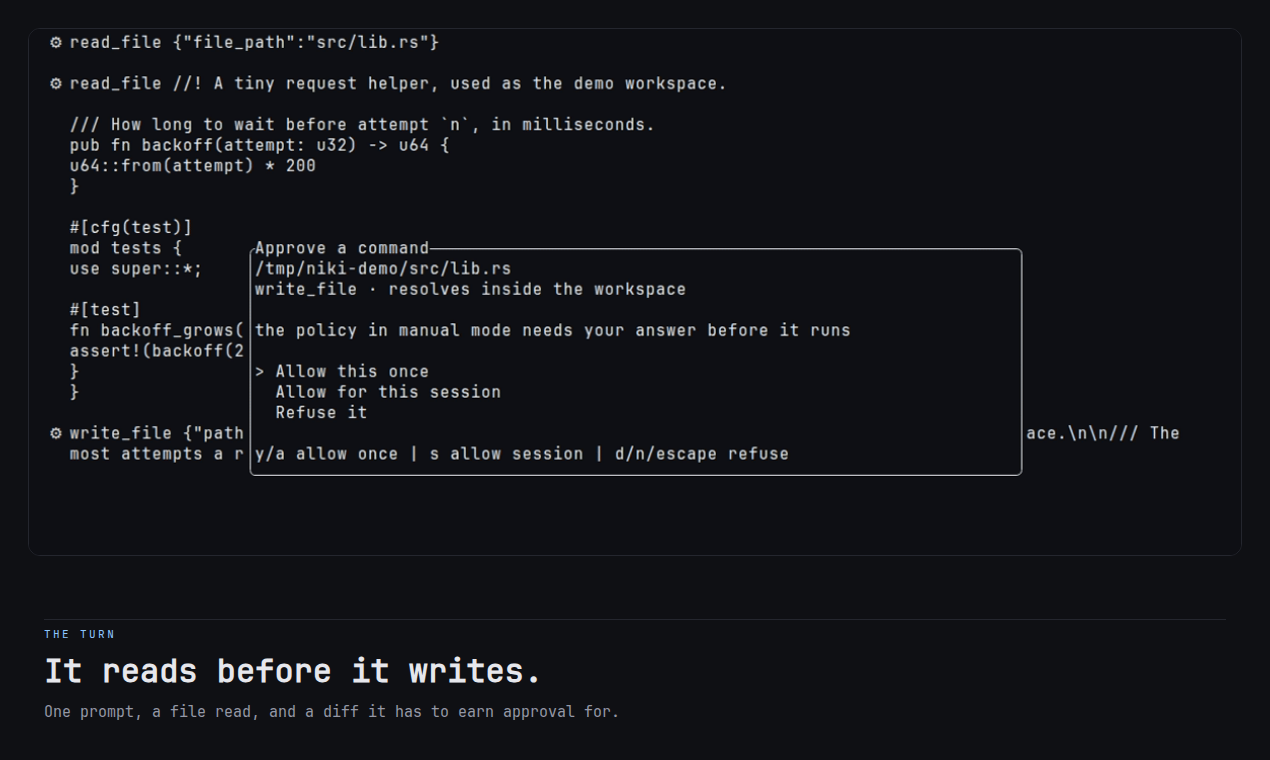
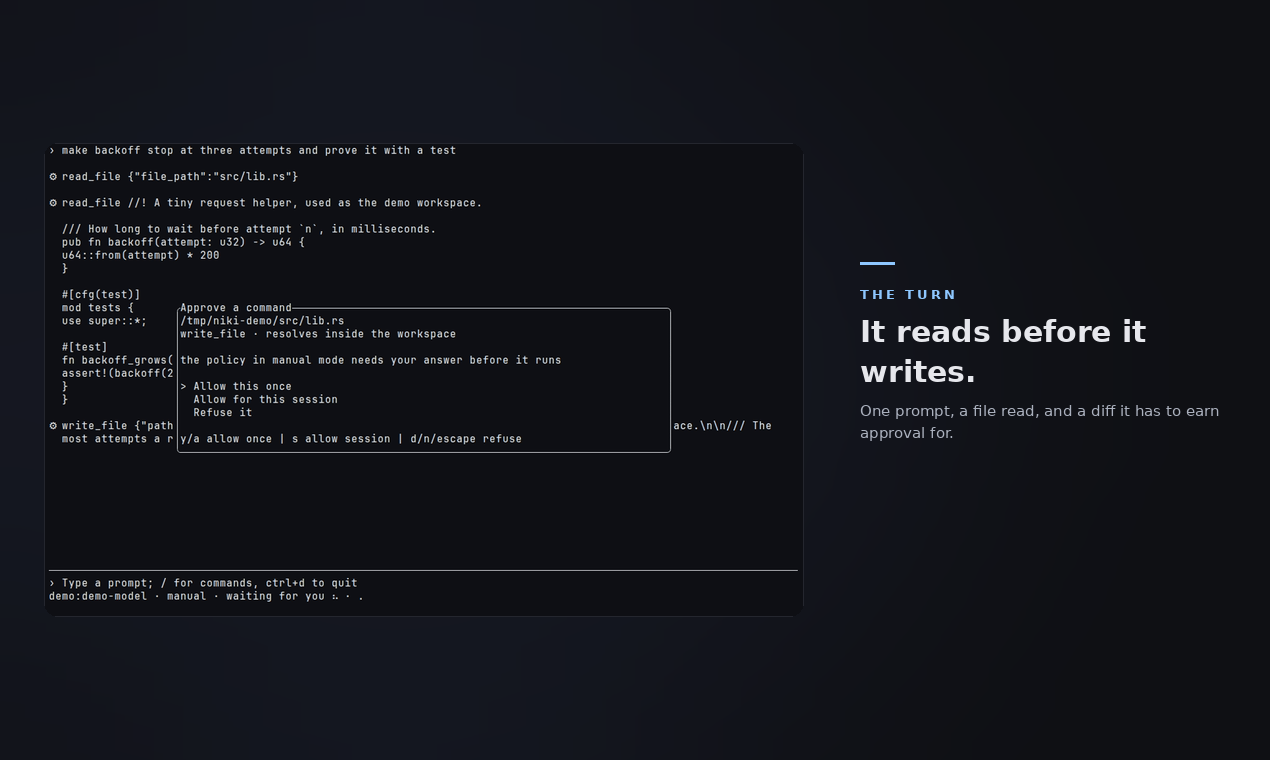
chore(repo): re-record the demo and gallery for the new interface (#170)
The recording is the shipped binary against a scripted provider: the welcome
block with the hairline composer and its `›` marker, the two-line footer,
and the approval cards. All four gallery slides and the thumbnail are
rendered from that recording.

diff --git a/launch/README.md b/launch/README.md
@@ -19,9 +19,11 @@ The screenshots come from the README recording, and the rendered results are
 committed assets. No gallery-rendering script is part of this repository:
 regenerate the images outside the tree from the committed `intro.gif`, then
 replace the files under `launch/gallery/`. Each slide is a 1270×760 canvas: the
-terminal frame in a bordered panel, and a kicker, headline and one-line caption
-under it. Frame and crop per slide: welcome at 2 s, prompt at 5 s, approval card
-at 8 s, test result and answer at 28 s.
+recording frame, full screen, inside a bordered card on the left at 760×474, and
+a kicker, headline and caption in the right column starting at x 860. Frame per
+slide: welcome at 2 s, the first approval card at 8 s, the shell approval at
+13 s, test result and answer at 28 s. The thumbnail is a 240×240 wordmark tile
+on the same background.
 
 ## Rules for this copy
 
